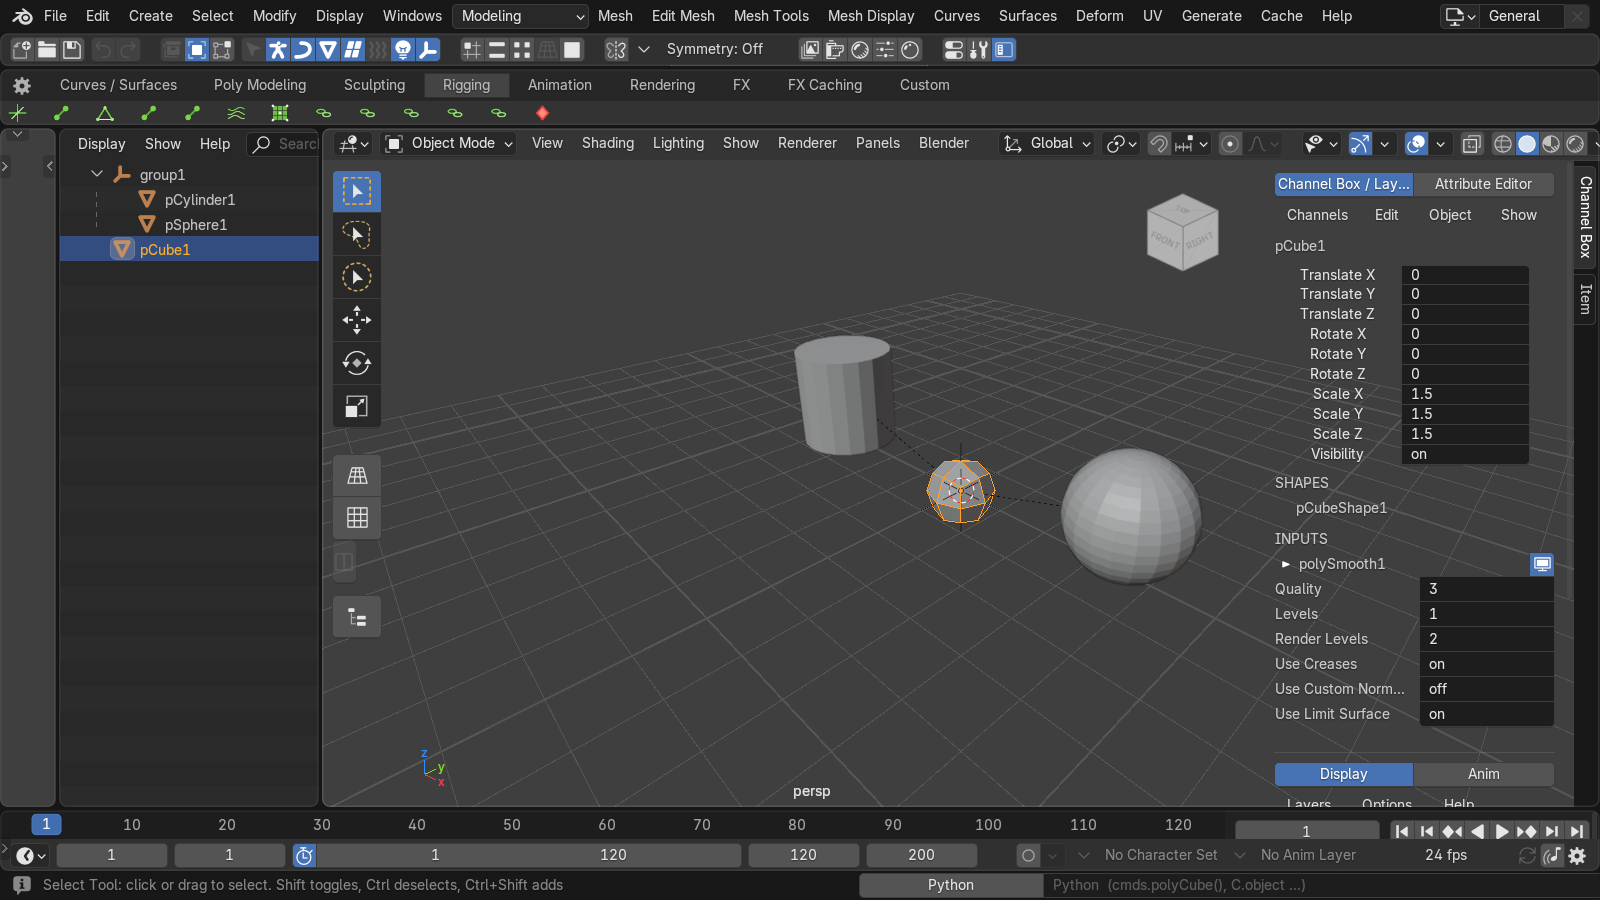
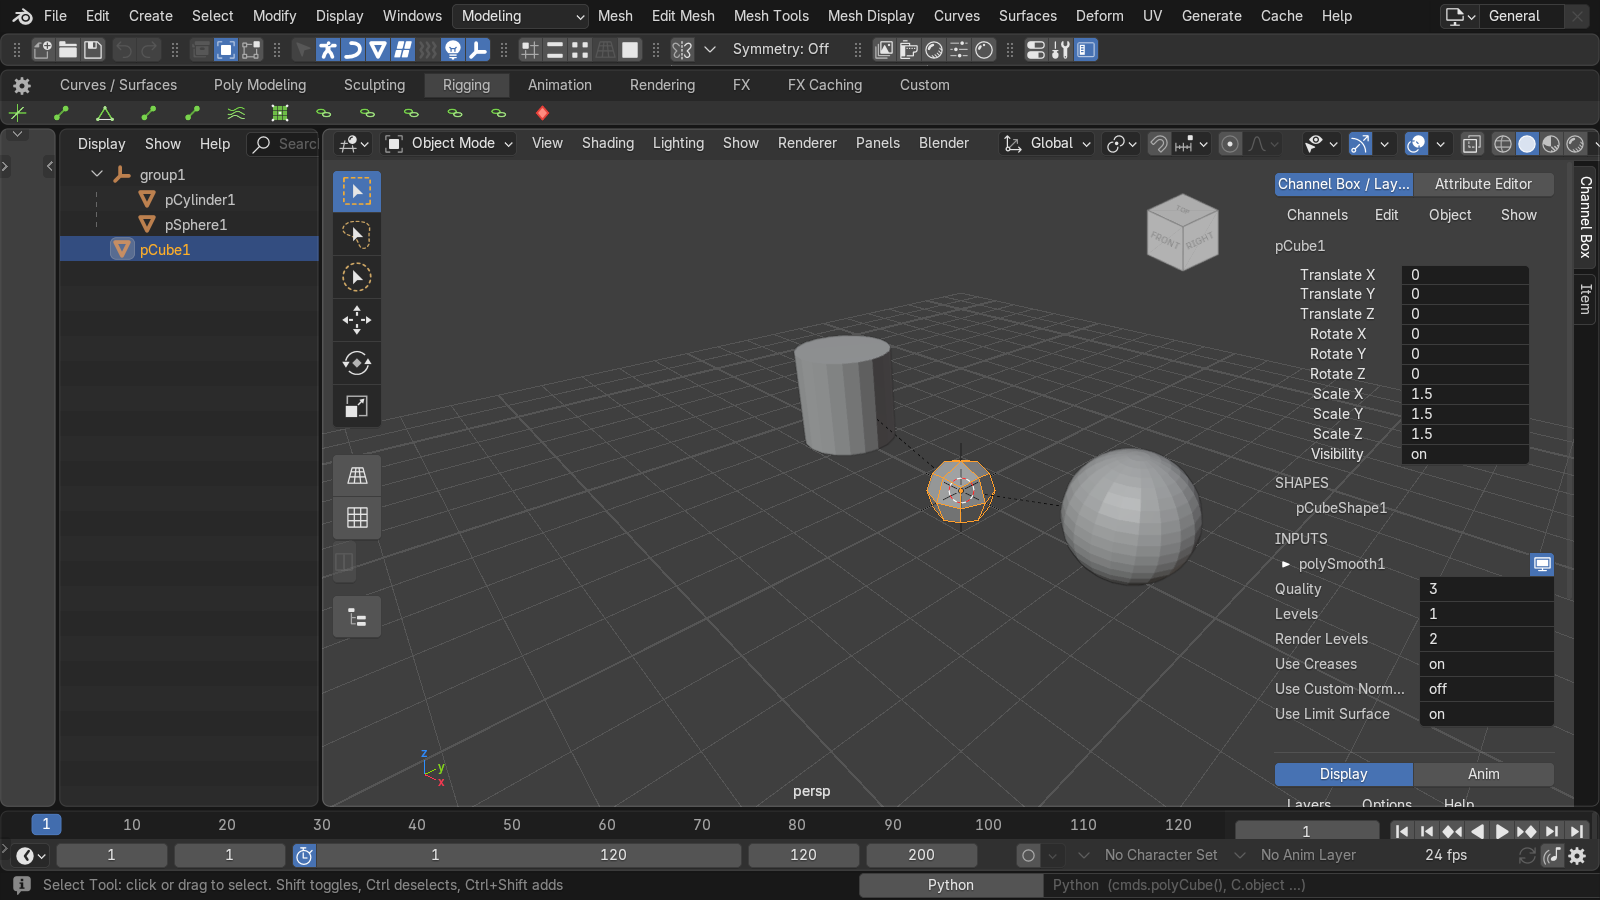
Status Line collapse handles: Maya openBar per group
Each Status Line group (File, selection mode, masks, snaps, symmetry, render,
editor toggles) starts with a grip handle that folds the group to a single
arrow and back (maya_kit.status_group), as Maya's statusLine openBars do.

Changed region(s): [[0.0938, 0.0311, 0.6875, 0.0933], [0.0, 0.0311, 0.0625, 0.0622]]

diff --git a/src/maya_kit/ui/status_line.py b/src/maya_kit/ui/status_line.py
@@ -331,71 +331,119 @@ class MAYAKIT_OT_editor_toggle(bpy.types.Operator):
 
 # --- drawing --------------------------------------------------------------------
 
+# Maya Status Line groups each start with an "openBar" collapse handle that hides the group
+# (research/maya/ui_layout.md:194-195, statusLine.mel toggleFileIcons ... toggleInputField). Kept for the
+# session only (Maya keeps them in optionVars; delegated).
+GROUPS = (
+    ("FILE", "File: New, Open, Save, Undo, Redo"),
+    ("SELECT_MODE", "Selection mode: hierarchy, object, component"),
+    ("MASKS", "Selection masks"),
+    ("SNAP", "Snap toggles"),
+    ("SYMMETRY", "Symmetry"),
+    ("RENDER", "Render"),
+    ("EDITORS", "Editor toggles"),
+)
+_collapsed = set()
+
+
+class MAYAKIT_OT_status_group(bpy.types.Operator):
+    """Show or hide this Status Line group (Maya collapse handle)"""
+    bl_idname = "maya_kit.status_group"
+    bl_label = "Status Line Group"
+    bl_options = {'INTERNAL'}
+
+    group: EnumProperty(items=[(g, g.replace("_", " ").title(), d) for g, d in GROUPS])
+
+    @classmethod
+    def description(cls, context, props):
+        desc = next(d for g, d in GROUPS if g == props.group)
+        return f"{'Show' if props.group in _collapsed else 'Hide'}: {desc}"
+
+    def execute(self, context):
+        _collapsed.symmetric_difference_update({self.group})
+        for window in context.window_manager.windows:
+            for area in window.screen.areas:
+                area.tag_redraw()
+        return {'FINISHED'}
+
+
+def _group(layout, group):
+    """The collapse handle of ``group``; True when the group's buttons should be drawn."""
+    open_ = group not in _collapsed
+    sub = layout.row(align=True)
+    sub.ui_units_x = 0.6
+    sub.operator(MAYAKIT_OT_status_group.bl_idname, text="", emboss=False,
+                 icon='GRIP_V' if open_ else 'TRIA_RIGHT').group = group
+    return open_
+
+
 def draw_status_line(layout, context):
-    """The Maya Status Line groups, left to right (ui_layout.md:196-217)."""
+    """The Maya Status Line groups, left to right (ui_layout.md:196-217), each after its collapse handle."""
     screen = context.screen
     ts = context.scene.tool_settings
     area, _r = main_view3d(screen)
     space = area.spaces.active if area else None
 
-    row = layout.row(align=True)
-    row.operator("wm.read_homefile", text="", icon='FILE_NEW')
-    row.operator("wm.open_mainfile", text="", icon='FILE_FOLDER')
-    row.operator("wm.save_mainfile", text="", icon='FILE_TICK')
-    row = layout.row(align=True)
-    row.operator("ed.undo", text="", icon='LOOP_BACK')
-    row.operator("ed.redo", text="", icon='LOOP_FORWARDS')
-    layout.separator()
+    if _group(layout, "FILE"):
+        row = layout.row(align=True)
+        row.operator("wm.read_homefile", text="", icon='FILE_NEW')
+        row.operator("wm.open_mainfile", text="", icon='FILE_FOLDER')
+        row.operator("wm.save_mainfile", text="", icon='FILE_TICK')
+        row = layout.row(align=True)
+        row.operator("ed.undo", text="", icon='LOOP_BACK')
+        row.operator("ed.redo", text="", icon='LOOP_FORWARDS')
 
-    editing = context.mode != 'OBJECT' and context.mode.startswith('EDIT')
-    row = layout.row(align=True)
-    row.operator(menu_sets.MAYAKIT_OT_menu_unavailable.bl_idname, text="",
-                 icon='OUTLINER_OB_GROUP_INSTANCE').item = "Status Line/Select by hierarchy"
-    row.operator(MAYAKIT_OT_select_mode.bl_idname, text="", icon='OBJECT_DATAMODE',
-                 depress=not editing).mode = "OBJECT"
-    row.operator(MAYAKIT_OT_select_mode.bl_idname, text="", icon='EDITMODE_HLT',
-                 depress=editing).mode = "COMPONENT"
+    if _group(layout, "SELECT_MODE"):
+        editing = context.mode != 'OBJECT' and context.mode.startswith('EDIT')
+        row = layout.row(align=True)
+        row.operator(menu_sets.MAYAKIT_OT_menu_unavailable.bl_idname, text="",
+                     icon='OUTLINER_OB_GROUP_INSTANCE').item = "Status Line/Select by hierarchy"
+        row.operator(MAYAKIT_OT_select_mode.bl_idname, text="", icon='OBJECT_DATAMODE',
+                     depress=not editing).mode = "OBJECT"
+        row.operator(MAYAKIT_OT_select_mode.bl_idname, text="", icon='EDITMODE_HLT',
+                     depress=editing).mode = "COMPONENT"
 
-    row = layout.row(align=True)
-    if context.mode == 'EDIT_MESH':
-        for i, icon in enumerate(('VERTEXSEL', 'EDGESEL', 'FACESEL')):
-            row.prop(ts, "mesh_select_mode", index=i, text="", icon=icon)
-    else:
-        for group, _desc, icon, types in OBJECT_MASKS:
-            if types is None:
-                row.operator(menu_sets.MAYAKIT_OT_menu_unavailable.bl_idname, text="",
-                             icon=icon).item = f"Status Line/{_desc}"
-            else:
-                row.operator(MAYAKIT_OT_select_mask.bl_idname, text="", icon=icon,
-                             depress=bool(space) and mask_on(space, group)).group = group
-    layout.separator()
-
-    row = layout.row(align=True)
-    for name, desc, icon, elements in SNAPS:
-        if elements is None:
-            row.operator(menu_sets.MAYAKIT_OT_menu_unavailable.bl_idname, text="",
-                         icon=icon).item = f"Status Line/{desc}"
+    if _group(layout, "MASKS"):
+        row = layout.row(align=True)
+        if context.mode == 'EDIT_MESH':
+            for i, icon in enumerate(('VERTEXSEL', 'EDGESEL', 'FACESEL')):
+                row.prop(ts, "mesh_select_mode", index=i, text="", icon=icon)
         else:
-            row.operator(MAYAKIT_OT_snap_toggle.bl_idname, text="", icon=icon,
-                         depress=snap_on(ts, name)).snap = name
-    layout.separator()
+            for group, _desc, icon, types in OBJECT_MASKS:
+                if types is None:
+                    row.operator(menu_sets.MAYAKIT_OT_menu_unavailable.bl_idname, text="",
+                                 icon=icon).item = f"Status Line/{_desc}"
+                else:
+                    row.operator(MAYAKIT_OT_select_mask.bl_idname, text="", icon=icon,
+                                 depress=bool(space) and mask_on(space, group)).group = group
 
-    draw_symmetry(layout, context)
-    layout.separator()
+    if _group(layout, "SNAP"):
+        row = layout.row(align=True)
+        for name, desc, icon, elements in SNAPS:
+            if elements is None:
+                row.operator(menu_sets.MAYAKIT_OT_menu_unavailable.bl_idname, text="",
+                             icon=icon).item = f"Status Line/{desc}"
+            else:
+                row.operator(MAYAKIT_OT_snap_toggle.bl_idname, text="", icon=icon,
+                             depress=snap_on(ts, name)).snap = name
 
-    row = layout.row(align=True)
-    row.operator("render.view_show", text="", icon='RENDER_RESULT')
-    row.operator("render.render", text="", icon='RENDER_STILL')
-    row.operator(MAYAKIT_OT_ipr_toggle.bl_idname, text="", icon='SHADING_RENDERED',
-                 depress=bool(space) and space.shading.type == 'RENDERED')
-    row.operator(MAYAKIT_OT_render_settings.bl_idname, text="", icon='OPTIONS')
-    row.operator(MAYAKIT_OT_hypershade.bl_idname, text="", icon='NODE_MATERIAL')
-    layout.separator()
+    if _group(layout, "SYMMETRY"):
+        draw_symmetry(layout, context)
 
-    row = layout.row(align=True)
-    for editor, _desc, icon in EDITORS:
-        row.operator(MAYAKIT_OT_editor_toggle.bl_idname, text="", icon=icon,
-                     depress=editor_shown(screen, editor)).editor = editor
+    if _group(layout, "RENDER"):
+        row = layout.row(align=True)
+        row.operator("render.view_show", text="", icon='RENDER_RESULT')
+        row.operator("render.render", text="", icon='RENDER_STILL')
+        row.operator(MAYAKIT_OT_ipr_toggle.bl_idname, text="", icon='SHADING_RENDERED',
+                     depress=bool(space) and space.shading.type == 'RENDERED')
+        row.operator(MAYAKIT_OT_render_settings.bl_idname, text="", icon='OPTIONS')
+        row.operator(MAYAKIT_OT_hypershade.bl_idname, text="", icon='NODE_MATERIAL')
+
+    if _group(layout, "EDITORS"):
+        row = layout.row(align=True)
+        for editor, _desc, icon in EDITORS:
+            row.operator(MAYAKIT_OT_editor_toggle.bl_idname, text="", icon=icon,
+                         depress=editor_shown(screen, editor)).editor = editor
 
 
 _orig = {}
@@ -477,7 +525,7 @@ def unpatch_topbar():
 
 classes = (MAYAKIT_OT_select_mask, MAYAKIT_OT_select_mode, MAYAKIT_OT_snap_toggle, MAYAKIT_MT_symmetry,
            MAYAKIT_OT_render_settings, MAYAKIT_OT_ipr_toggle, MAYAKIT_OT_hypershade,
-           MAYAKIT_OT_editor_toggle)
+           MAYAKIT_OT_editor_toggle, MAYAKIT_OT_status_group)
 
 
 def register():
@@ -492,5 +540,6 @@ def unregister():
     bpy.types.VIEW3D_PT_active_tool.remove(draw_tool_symmetry)
     bpy.types.VIEW3D_HT_tool_header.remove(draw_tool_header)
     unpatch_topbar()
+    _collapsed.clear()
     for cls in reversed(classes):
         bpy.utils.unregister_class(cls)

diff --git a/tests/test_step51_shelf_menus.py b/tests/test_step51_shelf_menus.py
@@ -127,3 +127,44 @@ def test_template_shelf_row():
     regions = {r.type: r for r in row.regions}
     assert row.spaces.active.show_region_header
     assert 60 <= row.height <= 68, row.height       # Maya shelf 64 (ui_layout.md:219)
+
+
+class _Fake:
+    def __init__(self, log):
+        object.__setattr__(self, "log", log)
+
+    def __getattr__(self, name):
+        if name in ("row", "column"):
+            return lambda *a, **k: _Fake(self.log)
+
+        def add(*a, **kw):
+            self.log.append((name, a, kw.get("icon")))
+            return type("P", (), {})()
+        return add
+
+    def __setattr__(self, name, value):
+        pass
+
+
+def test_status_line_collapse_handles():
+    """Every Maya Status Line group has an openBar handle that hides it (ui_layout.md:194-195)."""
+    status_line = import_module(kit.MODULE + ".ui.status_line")
+
+    def draw():
+        log = []
+        status_line.draw_status_line(_Fake(log), bpy.context)
+        return log
+
+    log = draw()
+    handles = [e for e in log if e[1] and e[1][0] == "maya_kit.status_group"]
+    assert len(handles) == len(status_line.GROUPS), handles
+    assert all(e[2] == 'GRIP_V' for e in handles)
+    assert any(e[2] == 'FILE_NEW' for e in log)
+    assert bpy.ops.maya_kit.status_group(group="FILE") == {'FINISHED'}
+    try:
+        log = draw()
+        assert not any(e[2] in ('FILE_NEW', 'LOOP_BACK') for e in log), "File group hidden"
+        assert any(e[2] == 'TRIA_RIGHT' for e in log) and any(e[2] == 'RENDER_STILL' for e in log)
+    finally:
+        bpy.ops.maya_kit.status_group(group="FILE")
+    assert any(e[2] == 'FILE_NEW' for e in draw())

diff --git a/tests/gui/gui_step51_shelf_menus.py b/tests/gui/gui_step51_shelf_menus.py
@@ -126,4 +126,41 @@ def s_menu_shot():
     ev('ESC', 'RELEASE')
 
 
+status_line = import_module(MODULE + ".ui.status_line")
+
+
+def file_handle():
+    # the Status Line's first collapse handle (File group): left end of the strip header
+    strip = next(a for a in win().screen.areas if a.type == 'IMAGE_EDITOR' and shelf.is_strip(a.spaces.active))
+    hdr = next(r for r in strip.regions if r.type == 'HEADER')
+    return hdr.x + round(15 * scale()), hdr.y + hdr.height // 2
+
+
+@step
+def s_handle_hover():
+    x, y = file_handle()
+    ev('MOUSEMOVE', 'NOTHING', x=x, y=y + 40)   # leave the menu bar first
+    ev('MOUSEMOVE', 'NOTHING', x=x, y=y)
+
+
+@step
+def s_handle_click():
+    ev('LEFTMOUSE', 'PRESS')
+    ev('LEFTMOUSE', 'RELEASE')
+
+
+@step
+def s_handle_check():
+    check(f"Status Line File handle hides the group ({sorted(status_line._collapsed)})",
+          status_line._collapsed == {"FILE"})
+    shot("gui_step51_status_collapsed.png")
+    ev('LEFTMOUSE', 'PRESS')
+    ev('LEFTMOUSE', 'RELEASE')
+
+
+@step
+def s_handle_again():
+    check("... and the same handle shows it again", not status_line._collapsed)
+
+
 run()

diff --git a/docs/steps/step_51.md b/docs/steps/step_51.md
@@ -58,6 +58,11 @@ backlog 10 (`docs/PLAN.md` 「Maya 동일화 계획」). 근거: compare/12_crea
   셸프 탭 3 지점 새로 (전엔 「탭 없음」), 아이콘 줄 지점 = `shelf.WINDOW`; `look_shots` 셸프 높이 맞춤 + 단언.
 - 테스트: 새 `test_step51_shelf_menus` (6), `gui_step51_shelf_menus`; test_step7/34 가짜 layout 갱신.
 
+- 후속 (같은 단계, 커밋 2): Status Line 그룹마다 Maya 「openBar」 접기 손잡이 (`ui/status_line.GROUPS`, `maya_kit.status_group`,
+  research/maya/ui_layout.md:194-195): 펼침 = 세로 그립 (GRIP_V), 접힘 = ▸, 그룹 사이 구분선 대신. 테스트 `test_status_line_collapse_handles`,
+  gui_step51 손잡이 클릭 → 숨김 → 다시 클릭 → 보임. 검증: 헤드리스 **399/399**, GUI **316/316** (0.8) · **315/315** (1.25),
+  release_check PASS, dogfood 47/47 (콘솔 오류 0).
+
 ## 검증
 - 헤드리스 **398/398** (step 50: 392). `test_enable_disable` 누수 0 (머리·WINDOW 핸들러 둘 다 제거).
 - look_compare: density **6/6** (메뉴바 26, 항목 19.4, CB 16.0, 메뉴 위 끝 −3 (Maya 2), 셸프 **64** (Maya 64), 아이콘 **32**);
@@ -71,7 +76,9 @@ backlog 10 (`docs/PLAN.md` 「Maya 동일화 계획」). 근거: compare/12_crea
 - 1.25 등 템플릿 저장 배율과 다른 배율에서 셸프 줄은 마우스가 그 아래 경계를 지날 때까지 낮음 (gui_step51 1.25: 56 px, 아이콘 20;
   release 스크린샷 `docs/screenshots/01_layout.png` 도 그 상태) — `screen.area_move` poll 이 마우스가 영역 위면 False (step 49 툴박스
   열과 같은 한계).
-- Status Line: kit 제작 컬러 아이콘·그룹 접기 손잡이 (Maya 18_status_line_crop) 없음 — Blender 아이콘 그대로.
+- Status Line 아이콘은 Blender 아이콘 그대로 (Maya 18_status_line_crop 도 대부분 회색 기호라 셸프처럼 kit 이 그리지 않음, delegated;
+  머리 레이아웃 버튼은 미리보기 아이콘을 16 px 로만 그림). 접힌 그룹은 세션 동안만 기억 (Maya 는 optionVar).
+- 셸프 줄 높이: 배율이 더 크면 (OS 125 % × `--ui-scale 1.25` = 1.56) 마우스가 경계를 지나기 전 아이콘 줄이 거의 없어짐 (44 px 영역).
 - 메뉴: Maya 끊어내기 (tear-off) 선 없음 (Blender 메뉴는 떼어 낼 수 없음); 옵션 박스는 오른쪽 □ 열이 아니라 왼쪽 아이콘 + 길게 누르기.
   고른 탭 #4b4b4b (Maya #444444, ΔE 2.4), 탭 글자도 어둡게 덮임.
 - 셸프 아이콘 끌어 옮기기·가운데 버튼 끌어 셸프에 넣기 (Maya) 없음; 셸프가 줄보다 길면 Maya 의 위/아래 화살표 대신 잘림.

diff --git a/docs/HANDOFF.md b/docs/HANDOFF.md
@@ -6,6 +6,7 @@
   (같은 줄 두 번째 버튼은 메뉴가 계단처럼 깨짐), 셸프 줄 64 px = 탭 줄 (머리, #373737 로 어둡게) + kit 제작 32 px 컬러 아이콘 줄
   (`ui/shelf_icons.py`, 이미지 편집기 POST_PIXEL + 기즈모 풀 고르기). 헤드리스 398/398, GUI 314/314 (0.8) · 313/313 (1.25),
   look_compare density 6/6 (셸프 64, 아이콘 32), rects 5/12, 셸프 픽셀 4 지점 ΔE ≤ 2.4, dogfood 47/47, release_check PASS.
+  후속: Status Line 그룹 접기 손잡이 (Maya openBar, `maya_kit.status_group`) — 헤드리스 399/399, GUI 316/316 · 315/315.
 - Step 50 (에디터 크롬) 완료 — `docs/steps/step_50.md`. Channel Box: 패널 머리·톱니 대신 메뉴 줄 Channels/Edit/Object/Show, 상자 없는
   이름·SHAPES·INPUTS, Maya 빈 선택 문구; Layer Editor: Display/Anim 탭 + Layers/Options/Help; Outliner (Maya 식) 머리 = Display/Show/Help
   + 검색 (`ui/maya_outliner.py`), 눈 열 없음; Time Slider 오른쪽 (타임라인 사이드바) 현재 프레임 + 재생 버튼 8, 헤더 = Maya 순서 Range
@@ -154,4 +155,4 @@
   로 찍힌다. GUI 테스트는 두 배율로: `python tests/gui/run.py` 와 `--ui-scale 0.8` (새 고정 픽셀 좌표는 `sim.px()`).
 - Blender 를 손으로 띄울 때는 `BLENDER_USER_*` 폴더를 먼저 만들 것 (CLAUDE.md, step 42 사고).
 - 외형 검증: `python tools/look_compare.py` (Maya 자료 다시 찍기: `research/scripts/maya_shots/launch.ps1` → `mayapy research/scripts/maya_colors.py`).
-- 이전 남은 항목: step_36–39 「남은 것」, PLAN 「재점검 3차」 8–9, step_49 「남은 것」 (Item 탭, AE 460), step_51 「남은 것」 (다른 배율의 셸프 줄 높이, Status Line 아이콘·접기 손잡이), step_50 「남은 것」 (Outliner 카메라 행, 목록 바탕색).
+- 이전 남은 항목: step_36–39 「남은 것」, PLAN 「재점검 3차」 8–9, step_49 「남은 것」 (Item 탭, AE 460), step_51 「남은 것」 (다른 배율의 셸프 줄 높이, Status Line 아이콘은 Blender 것), step_50 「남은 것」 (Outliner 카메라 행, 목록 바탕색).

diff --git a/docs/manual_checks.md b/docs/manual_checks.md
@@ -332,3 +332,4 @@ GUI 자동 테스트(`python tests/gui/run.py`)가 이벤트 순서는 확인한
 - [ ] (step 51) 셸프 줄 = 탭 줄 (어두운 #373737, 고른 탭 밝게) + 32 px 컬러 아이콘 줄. 아이콘에 마우스 = 칸 강조 + 툴팁, 클릭 = 명령, 0.35 s 안 두 번째 클릭·Ctrl+클릭 = 옵션. 탭 바꾸기, 톱니 = 셸프 설정 (새 셸프·버튼 추가·마지막 명령 추가).
 - [ ] (step 51) kit 아이콘이 무엇인지 읽히는지 (기본 도형·도구 기호, 기호 없는 버튼은 셸프 색 + 글자 두 개). Maya 아이콘과 헷갈릴 만큼 비슷하지 않은지 (결정 6).
 - [ ] (step 51) Resolution Scale 을 바꾼 뒤 마우스가 셸프 줄 아래 경계를 지나면 셸프 줄이 64 px × 배율로 돌아오는지.
+- [ ] (step 51) Status Line 그룹 앞 세로 그립 (Maya openBar) 을 누르면 그 그룹이 접혀 ▸ 만 남고, 다시 누르면 펼쳐지는지. 그립이 너무 작거나 눈에 안 띄지 않는지.
